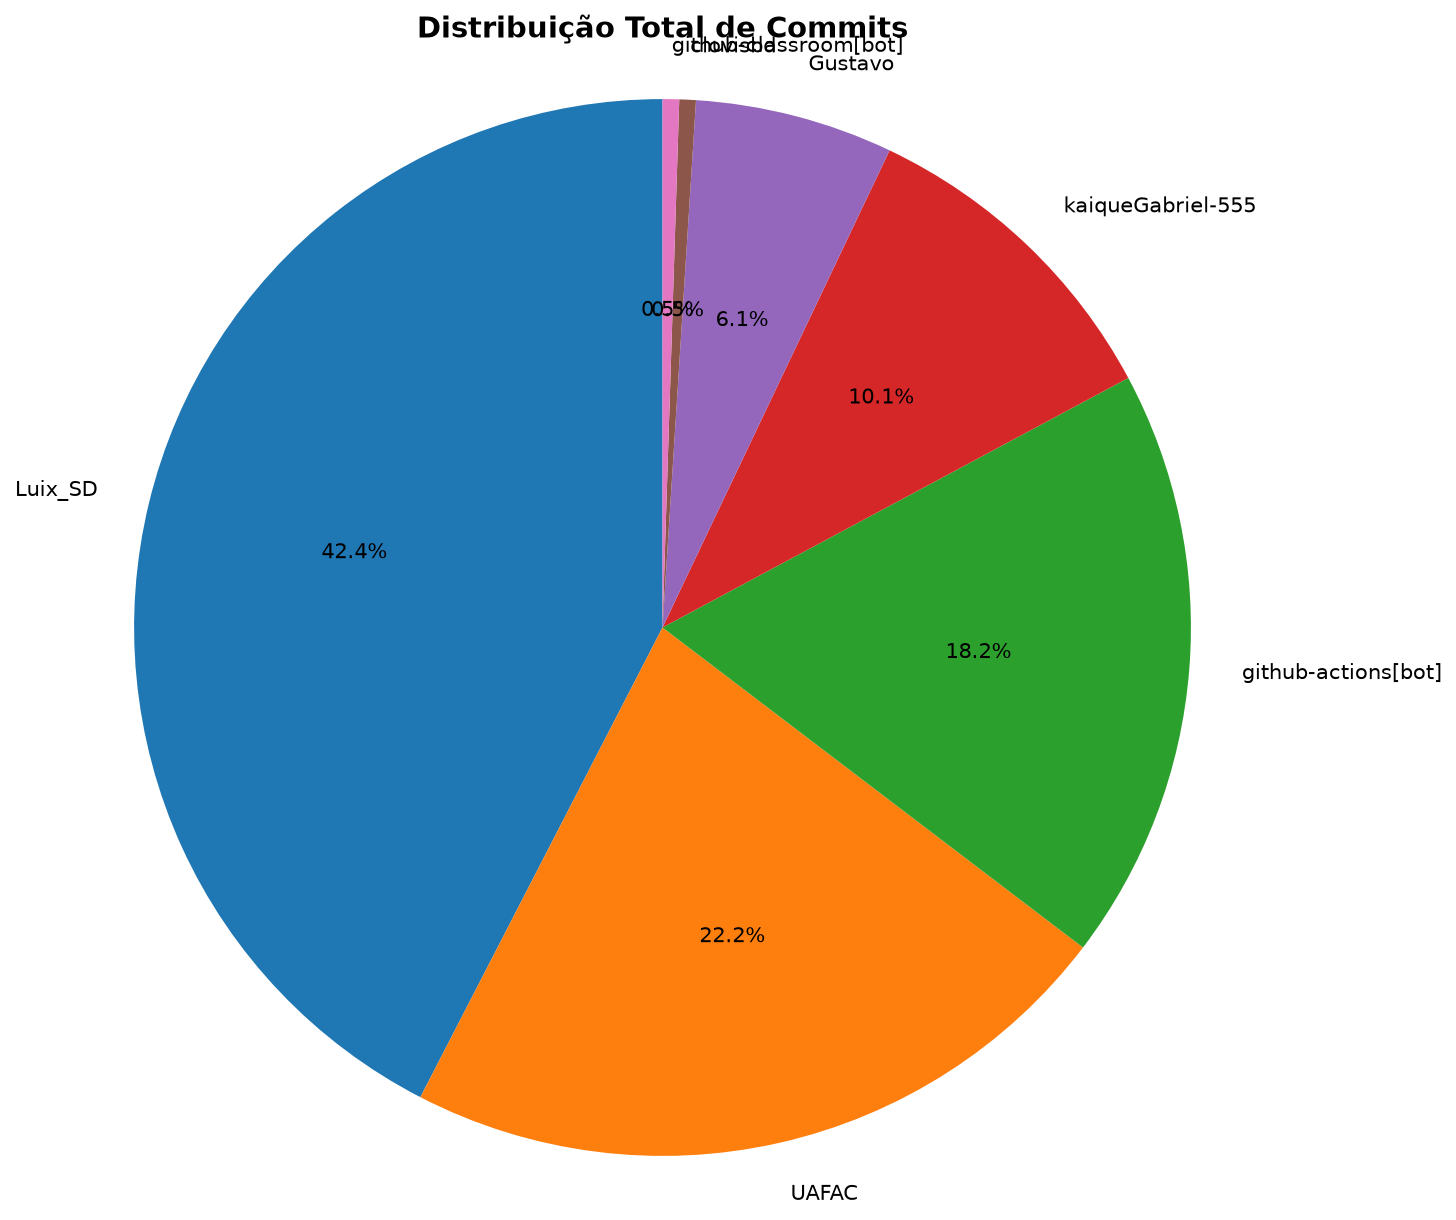
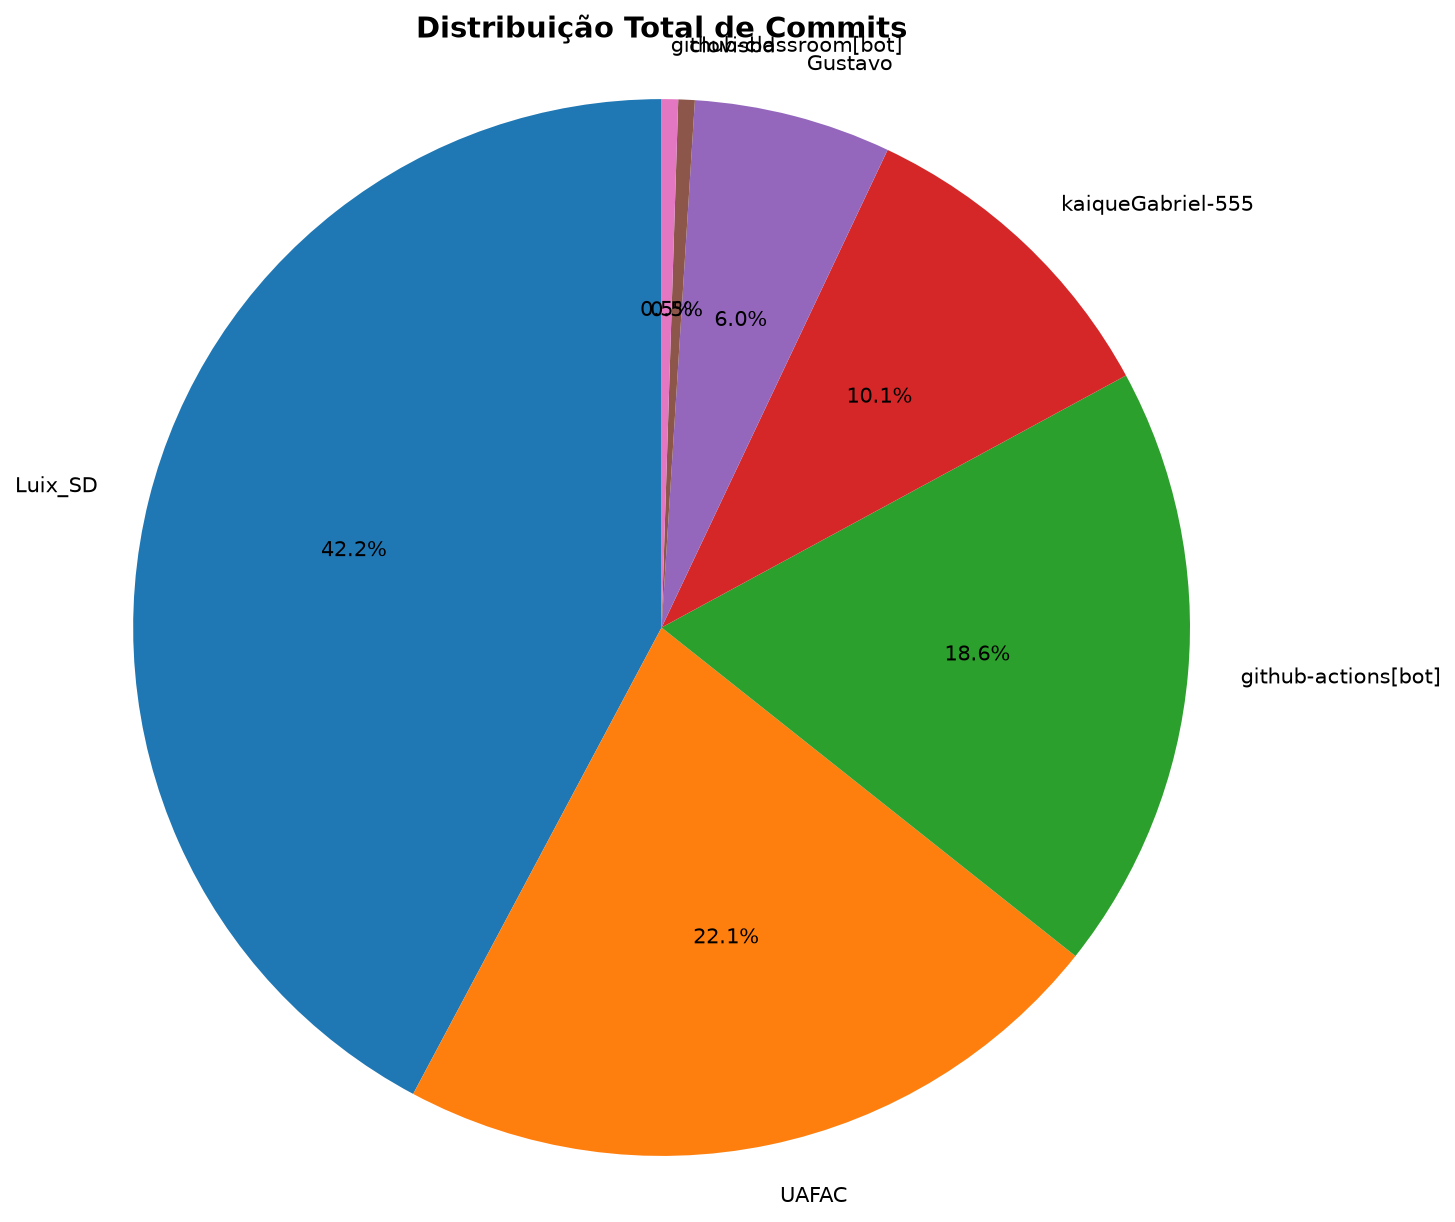
📊 Atualizar relatório de contribuições [skip ci]

diff --git a/documentos/CONTRIBUTION_REPORT.md b/documentos/CONTRIBUTION_REPORT.md
@@ -1,6 +1,6 @@
 # 📊 Relatório de Contribuições do Projeto
 
-**Última atualização:** 10/08/2026 02:16
+**Última atualização:** 17/08/2026 01:41
 
 ---
 
@@ -12,12 +12,14 @@
 | Luix_SD               |        84 |      4602 |      1753 |         70 |             23 |               3 |
 | UAFAC                 |        44 |      7208 |      7561 |        102 |             29 |               3 |
 | clovisbd              |         1 |         5 |         0 |          1 |              0 |               0 |
-| github-actions[bot]   |        36 |       442 |       181 |          3 |             35 |               1 |
+| github-actions[bot]   |        37 |       448 |       185 |          3 |             36 |               1 |
 | github-classroom[bot] |         1 |       774 |         0 |         19 |              1 |               3 |
 | kaiqueGabriel-555     |        20 |       564 |       276 |          8 |             19 |               2 |
 
 
 ## 📅 Contribuições Semanais (Todo o Semestre)
+
+**2026-08-10**: github-actions[bot]: 1
 
 **2026-08-03**: github-actions[bot]: 1
 
@@ -35,9 +37,9 @@
 
 **2026-06-15**: github-actions[bot]: 1
 
-**2026-06-08**: Luix_SD: 20, UAFAC: 3, github-actions[bot]: 6
+**2026-06-08**: Luix_SD: 25, UAFAC: 3, github-actions[bot]: 8, kaiqueGabriel-555: 1
 
-**2026-06-01**: Gustavo: 12, Luix_SD: 20, UAFAC: 18, github-actions[bot]: 4, kaiqueGabriel-555: 19
+**2026-06-01**: Gustavo: 12, Luix_SD: 15, UAFAC: 18, github-actions[bot]: 2, kaiqueGabriel-555: 18
 
 **2026-05-25**: Luix_SD: 11, github-actions[bot]: 9, kaiqueGabriel-555: 1
 
